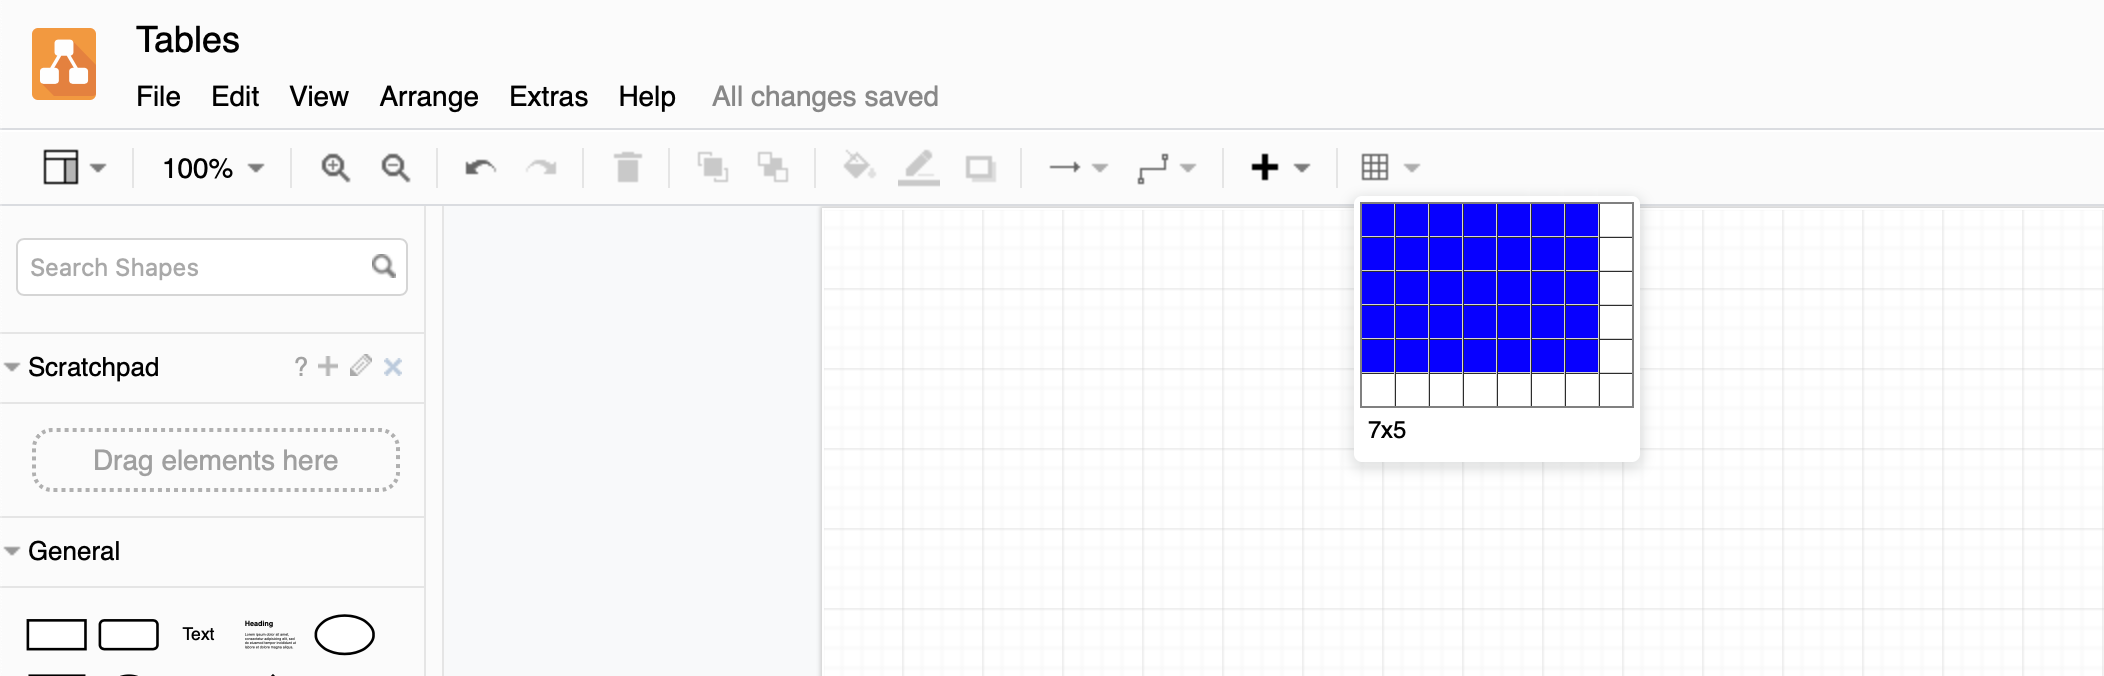
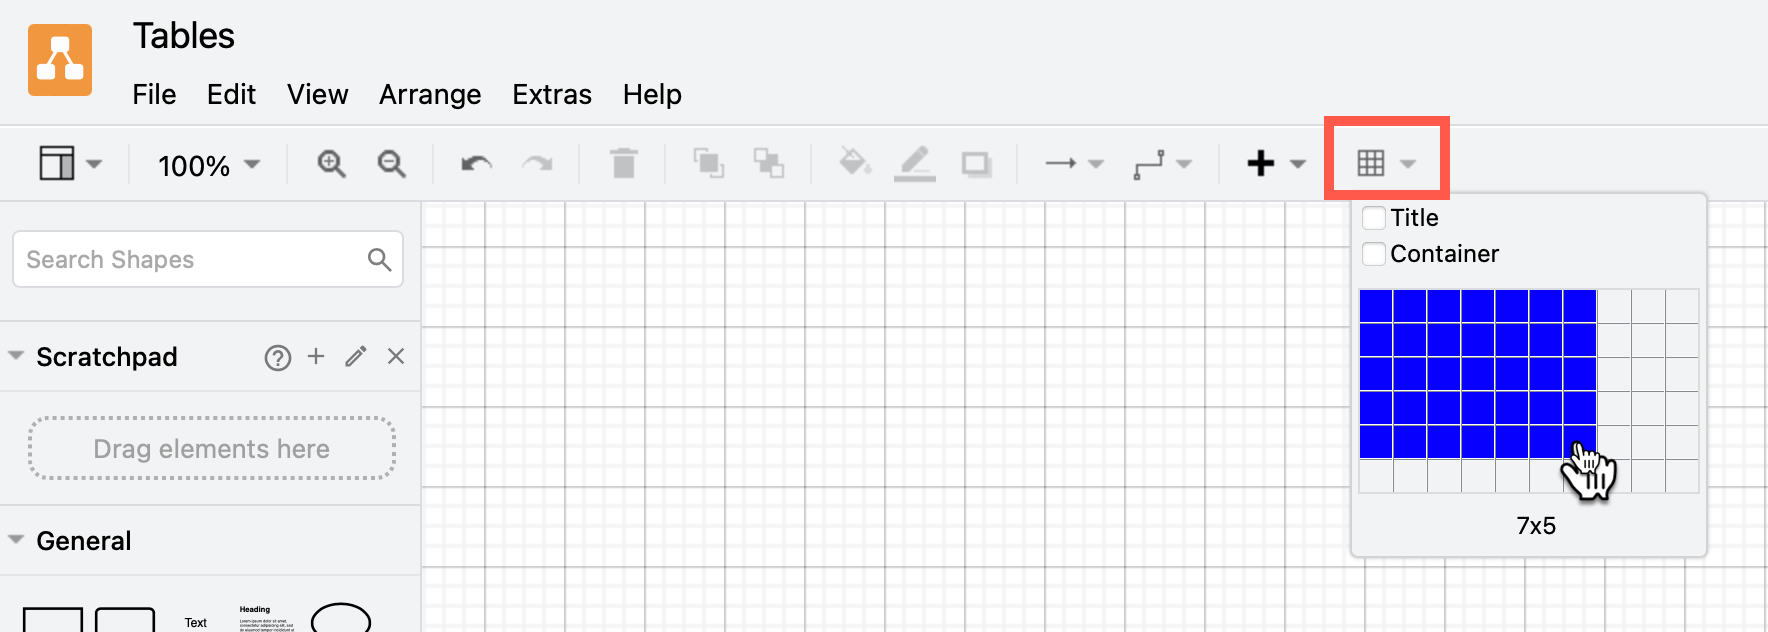
blog post

diff --git a/_posts/2024-07-31-style-text.md b/_posts/2024-07-31-style-text.md
@@ -1,0 +1,89 @@
+---
+layout: post
+author: draw.io
+slug: style-text
+date: 2024-07-31 10:13:00
+title: Change the style of text in draw.io
+tags: [features]
+categories: [features,shapes,text]
+---
+
+While the dream of drawing technical diagrams is to be able to understand them with very little text, labels on shapes and connectors add essential descriptive elements. There are many ways to style text in draw.io - you can even use multiple styles in one label. 
+<br /><img src="/assets/img/blog/text-styles.png" style="width=100%;max-width:500px;height:auto;" alt="Select a different font to style text in draw.io">
+
+## Add and select text in a diagram
+
+**Add a label:** Select a shape or connector and start typing to [add a label](/doc/faq/labels-add.html). 
+<br /><img src="/assets/img/blog/basic-flow-add-labels.gif" style="width=100%;max-width:500px;height:auto;" alt="Add labels to shapes and connectors in draw.io">
+
+**Edit text:** Select a shape or connector with a label or a text shape and start typing to replace the existing text with whatever you type. 
+<br /><img src="/assets/img/blog/label-edit.gif" style="width=100%;max-width:500px;height:auto;" alt="Select a shape or connector and start typing to replace the label text draw.io">
+
+When you highlight some or all the text within the label, rather than just selecting the shape or connector, additional text style options will be available in the _Text_ tab of the format panel 
+
+**Select only part of the text:** You can use multiple text styles within the one text shape or label or table cell.
+
+1. Double click on the shape or connector to highlight the text. 
+2. Use the arrow keys or click within the label again to move the cursor to the start of the text you want to format. 
+3. Hold down ``Shift`` and use the arrow keys or click-and-drag to select the text within the label. When you change the text style, it will only apply to the selected text.
+<br /><img src="/assets/img/blog/text-partial-select.png" style="width=100%;max-width:250px;height:auto;" alt="Use multiple different styles on text within a label in draw.io">
+
+## Add text-only shapes
+
+**Add a longer text:** Double-click on a blank area in the drawing canvas and select the text-only shape from the quick selection box. This is a simple rectangle without an outline or fill that changes size to match the text you enter.
+<br /><img src="/assets/img/blog/selection-box-text.png" style="width=100%;max-width:300px;height:auto;" alt="Double click on the drawing canvas in draw.io and select Text to add a simple text-only shape">
+
+**Add text with a heading:** Use the _Textbox_ shape in the _General_ shape library. This is formatted with HTML - if you find the heading disappears, edit the HTML of the textbox.
+<br /><img src="/assets/img/blog/textbox-shape-html.png" style="width=100%;max-width:500px;height:auto;" alt="The Textbox shape in draw.io is formatted with HTML tags">
+
+**Add a list:** Use the [_Entity_](/blog/entity-relationship-tables.html) shapes from the _Entity Relation_ shape library, or [_List_](/blog/list-shapes.html) shapes from the _General_ shape library for neatly formatted lists.
+
+**Turn text into a list:** Select just the text you want to turn into a list within the label or text box and click on _Numbered List_ or _Bulleted List_.
+
+<img src="/assets/img/blog/lists-shapes-text.png" style="width=100%;max-width:500px;height:auto;" alt="Make a text list in draw.io with a list shape, entity shapes or by formatting selected text"> 
+
+
+**Add a table:** Drag to select the size of table you need in the [table tool](/blog/tables.html) via the toolbar. Make sure that the _Container_ option on the table tool is *not* enabled - otherwise each cell will want to include shapes and not text. 
+<br /><img src="/assets/img/blog/table-insert.png" style="width=100%;max-width:500px;height:auto;" alt="Insert a table via the draw.io toolbar">
+
+## Change the font, size, colour & style of text
+
+**Tip:** You'll need the format panel to style text - if you don't see it, press ``Ctrl+Shift+P`` on Windows, or ``Cmd+Shift+P`` on macOS. 
+
+Select the shapes, connectors and/or text shapes you want to format, then go to the _Text_ tab of the format panel and change their style. 
+
+  * **_Font_** - Select a different font from the dropdown list, or [use a custom font](/blog/external-fonts.html).
+  <br /><img src="/assets/img/blog/text-style-font.png" style="width=100%;max-width:300px;height:auto;" alt="Select a different font to style text in draw.io">
+  * **_Size_** - Use the arrows to increase/decrease the font size. Alternatively, select the shape or label and press Ctrl+Shift +/- (Numpad) to increase or decrease the text size.
+  <br /><img src="/assets/img/blog/text-style-font-size.png" style="width=100%;max-width:300px;height:auto;" alt="Select a different font size to style text in draw.io">
+  * **_Font Color_** - Click on the colour button to open the palette and set a new font colour. 
+  <br /><img src="/assets/img/blog/text-style-font-colour.png" style="width=100%;max-width:300px;height:auto;" alt="Select a different font colour to style text in draw.io">
+  * **_Bold_**, **_Italic_** and **_Underline_** - Click on one or more of these buttons to style the selected text. 
+    <br /><img src="/assets/img/blog/text-style-font-style.png" style="width=100%;max-width:300px;height:auto;" alt="Select bold, italics or underline to style text in draw.io">
+  
+Add a background and border around the text by enabling the _Background Color_ and _Border Color_ checkboxes. This will override the Fill colour of the shape directly under the label text.
+<br /><img src="/assets/img/blog/text-style-background-colour.png" style="width=100%;max-width:400px;height:auto;" alt="Click on the colour buttons to choose a new font, background and border colours from the palette">
+
+**Tip:** Refer to the [text styles FAQ](/doc/faq/text-styles.html) to see how to edit the _HTML_ tags and styles directly, change the line height, opacity, and more. 
+
+## Change the position of a shape text label
+
+**Horizontal alignment:** Click on _Right_, _Center_ or _Left_ just as you would in a word processor app. 
+
+**Vertical alignment:** Click on _Top_, _Middle_ or _Bottom_  to move the label around inside the shape.
+
+<img src="/assets/img/blog/text-horizontal-align.png" style="width=100%;max-width:250px;height:auto;" alt="Change the text alignment of labels to left, right or centred"> <img src="/assets/img/blog/text-vertical-align.png" style="width=100%;max-width:250px;height:auto;" alt="Change where the text label sits vertically within a shape">
+
+## Related
+
+* Enable [mathematical typesetting](/doc/faq/math-typesetting.html) to use LaTeX or AsciiMath. 
+
+* Select some of the text in a label and click on [superscript or subscript](/doc/faq/superscript-subscript.html). 
+
+* Select a different _Position_ from the dropdown list and change the _Spacing_ values to [reposition labels](/doc/faq/position-labels.html)
+
+* To add a line break to some text, press ``Shift+Enter`` as you type. If you can't enter a line break, [re-enable HTML labels and word wrap](/doc/faq/line-breaks.html). 
+
+* Use keyboard shortcuts or the [table tools in the _Arrange_ tab](/blog/tables.html) to add and delete rows and columns in tables and list shapes. 
+
+* [Change the text direction](/blog/vertical-text.html) and switch to vertical text if you need to use Japanese, Chinese or Korean in your diagram. 

diff --git a/_posts/2021-01-21-uml-2-5.md b/_posts/2021-01-21-uml-2-5.md
@@ -38,11 +38,11 @@ Using these shapes, and some of the shapes from the _General_ and older _UML_ sh
 
 _Click on a diagram below to open in our diagram viewer_
 
-**Component diagrams** show the dependencies between the logical and physical components of a system with the [interfaces that each component requires and provides](/blog/component-diagrams.html) and their ports.
+**Component diagrams** show the dependencies between the logical and physical components of a system with the [interfaces that each component requires and provides](/blog/uml-component-diagrams.html) and their ports.
 
 [<img src="/assets/img/blog/uml-2-5-component-diagram-example.png" style="width=100%;max-width:500px;height:auto;" alt="Component diagrams show the dependencies between the components of a system.">](https://viewer.diagrams.net/?lightbox=1&highlight=0000ff&edit=_blank&page=1&layers=1&nav=1&title=#Uhttps%3A%2F%2Fraw.githubusercontent.com%2Fjgraph%2Fdrawio-diagrams%2Fdev%2Fexamples%2Fuml-component-example.drawio)
 
-**Composite structure diagrams** are used to show the internal structure of a classifier, with its properties, parts and relationships, or how a collaboration behaves. You can break down the behaviour of a collaboration into one or more specific situations (occurences) in a collaboration or collaboration use diagram.
+**Composite structure diagrams** are used to show the internal structure of a classifier, with its properties, parts and relationships, or how a collaboration behaves. You can break down the behaviour of a collaboration into one or more specific situations (occurrences) in a collaboration or collaboration use diagram.
 
 [<img src="/assets/img/blog/uml-2-5-composite-structure-diagram-example.png" style="width=100%;max-width:500px;height:auto;" alt="Composite structure diagrams are used to show the internal structure of a classifier">](https://viewer.diagrams.net/?lightbox=1&highlight=0000ff&edit=_blank&page=1&layers=1&nav=1&title=#Uhttps%3A%2F%2Fraw.githubusercontent.com%2Fjgraph%2Fdrawio-diagrams%2Fdev%2Fexamples%2Fuml-composite-structure-collaboration-use-example.drawio)
 

diff --git a/_posts/2020-06-22-tables.md b/_posts/2020-06-22-tables.md
@@ -22,9 +22,14 @@ Use the table tool in the toolbar to add a table to your diagram as you would in
 
 ### Add a table title when you insert a table
 
-1. Hold down ``Shift`` and click on the _Table_ tool in the toolbar.
-2. Hover over the squares until the number of rows and columns you want are highlighted, then click to insert a table on the drawing canvas. This will automatically add a title row that spans all of the columns.
+1. Click on the _Table_ tool in the toolbar. 
+2. Enable the _Title_ checkbox, then .
+3. Hover over the squares until the number of rows and columns you want are highlighted, then click to insert a table on the drawing canvas. 
 <br /><img src="/assets/img/blog/table-title.png" style="width=100%;max-width:400px;height:auto;" alt="You can insert a table title easily by holding down shift and inserting a table as normal">
+
+This automatically adds a title row that spans all of the columns.
+
+**Shortcut:** Hold down ``Shift`` as you drag to select the size of the table. This will add a title row even if you haven't enable the _Title_ checkbox. 
 
 ### Add text to table cells
 
